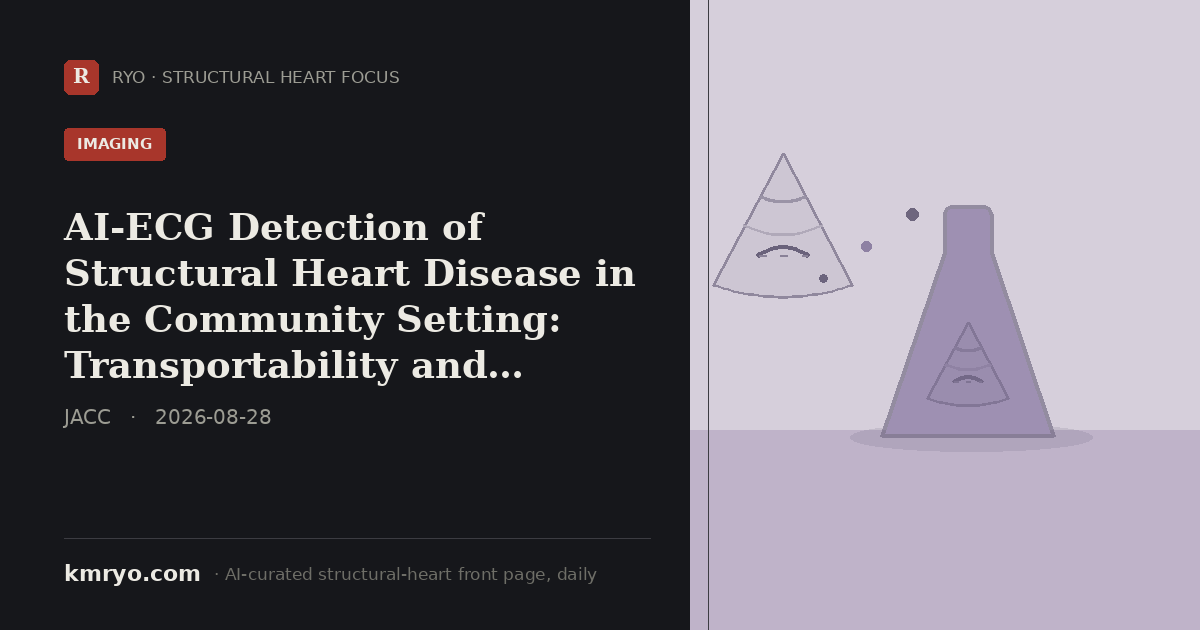
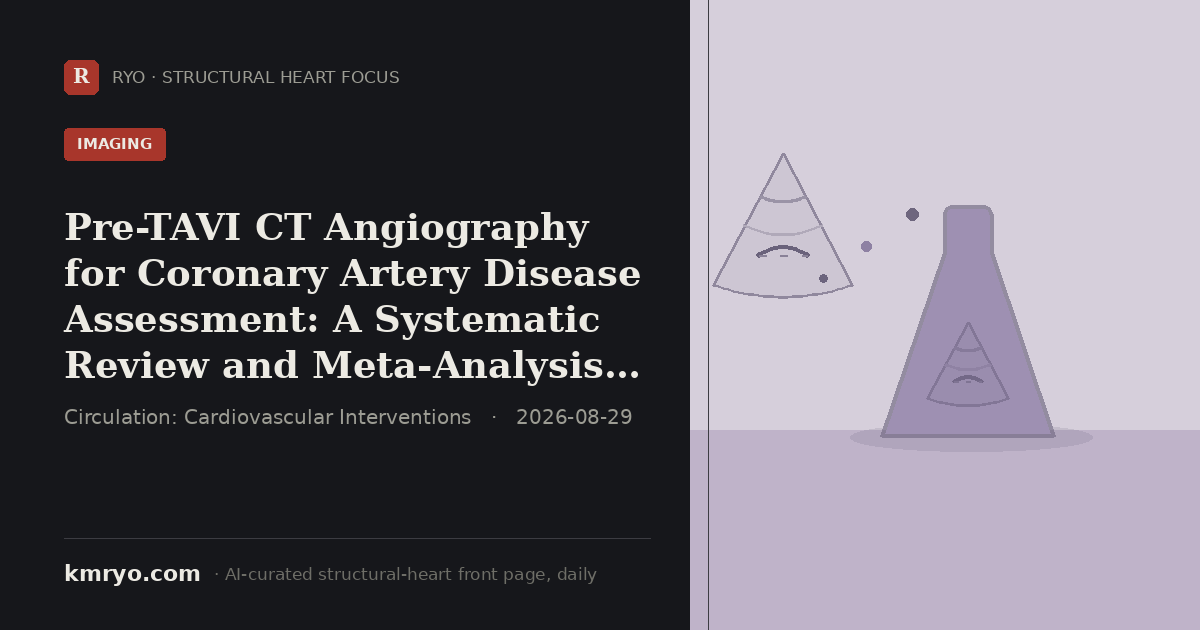
pulse: 2026-08-29 daily update

Changed region(s): [[0.0308, 0.3317, 0.555, 0.6032], [0.0617, 0.6333, 0.4008, 0.6937], [0.4317, 0.6333, 0.5242, 0.6937]]

diff --git a/index.html b/index.html
@@ -6,8 +6,8 @@
 <title>Structural Heart Focus — Daily | Dr. Mi Chen · 千觅量子 RYO</title>
 <meta name="description" content="Structural Heart Focus — the day's most important structural-heart reading (top journals, major meetings and the field's conversation), curated daily by an AI agent from inside the Zurich hybrid room. By Dr. Mi Chen · 千觅量子 RYO.">
 <!-- Social share card. Regenerated daily by the pulse agent (pulse/make_share_card.py); og:title/description updated to the day's top story so LinkedIn/WeChat/X show today's headline, not a static portrait. -->
-<meta property="og:title" content="AI-ECG Detection of Structural Heart Disease in the Community Setting: Transportability and Spectrum Effects in the PREVUE-VALVE Study">
-<meta property="og:description" content="PREVUE-VALVE study: the EchoNext AI-ECG model's accuracy for detecting structural heart disease drops from 83% AUC in hospital cohorts to 71% in a community-based screening population.">
+<meta property="og:title" content="Pre-TAVI CT Angiography for Coronary Artery Disease Assessment: A Systematic Review and Meta-Analysis of Clinical Outcomes">
+<meta property="og:description" content="Meta-analysis: pre-TAVI coronary CT angiography reaches 97% sensitivity and 96% AUC, and could avoid 41% of invasive coronary angiograms in the TAVI work-up.">
 <meta property="og:image" content="https://www.kmryo.com/pulse/img/share/card.png">
 <meta property="og:image:width" content="1200">
 <meta property="og:image:height" content="630">
@@ -16,8 +16,8 @@
 <meta property="og:type" content="website">
 <meta property="og:site_name" content="kmryo.com · Structural Heart Focus">
 <meta name="twitter:card" content="summary_large_image">
-<meta name="twitter:title" content="AI-ECG Detection of Structural Heart Disease in the Community Setting: Transportability and Spectrum Effects in the PREVUE-VALVE Study">
-<meta name="twitter:description" content="PREVUE-VALVE study: the EchoNext AI-ECG model's accuracy for detecting structural heart disease drops from 83% AUC in hospital cohorts to 71% in a community-based screening population.">
+<meta name="twitter:title" content="Pre-TAVI CT Angiography for Coronary Artery Disease Assessment: A Systematic Review and Meta-Analysis of Clinical Outcomes">
+<meta name="twitter:description" content="Meta-analysis: pre-TAVI coronary CT angiography reaches 97% sensitivity and 96% AUC, and could avoid 41% of invasive coronary angiograms in the TAVI work-up.">
 <meta name="twitter:image" content="https://www.kmryo.com/pulse/img/share/card.png">
[1 lines of base64/hex data omitted]
 <link rel="preconnect" href="https://fonts.googleapis.com">
